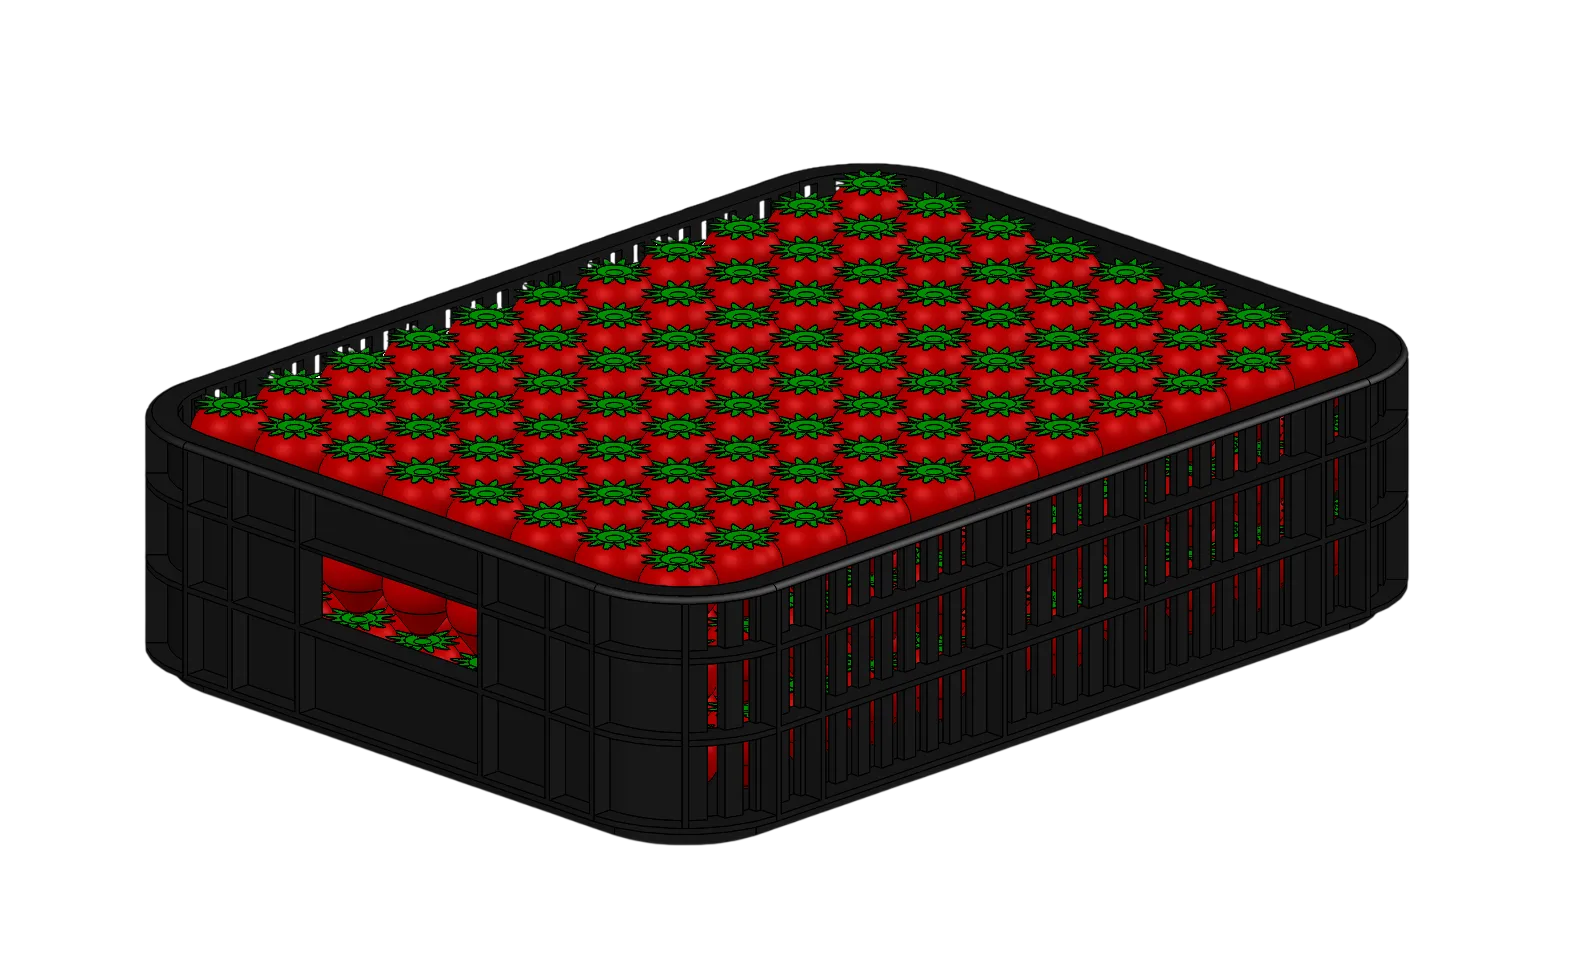
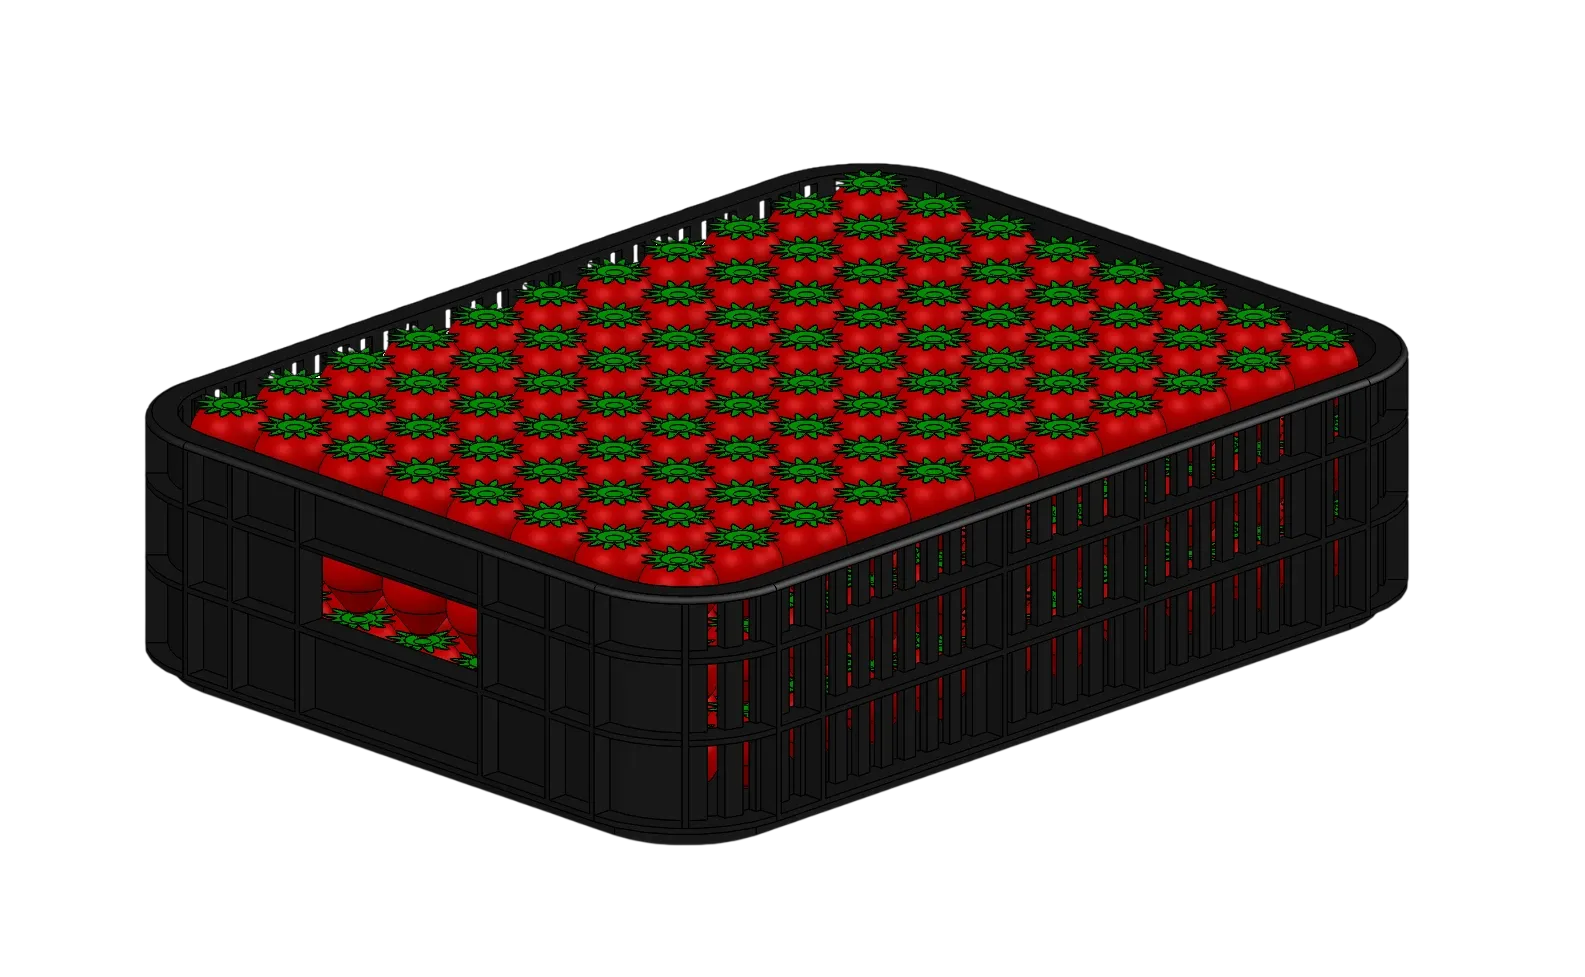
Fix transparent-photo background and centering bugs; update strawberry-flat render
Two real CSS bugs, not an asset problem:

1. .step-visual__img.is-transparent and .photo-visual__split-img.is-transparent
   were losing to a later, equal-specificity background rule
   (.bento-tile__step .step-visual__img / .step-visual--split
   .photo-visual__split-img), so every "transparent" cut-out photo shown as
   a plain step image or in a split row was silently getting its white
   panel back — this is why strawberry-flat still looked opaque even
   though the source PNG and generated WebP both had real alpha. Qualified
   the override selectors so they always win regardless of source order.

2. .bento-tile__step .step-visual__img was never actually centered: Tailwind's
   preflight sets img { display: block }, so the step's text-align: center
   (which only affects inline content) had no effect on it. Switched to
   margin: auto.

Also swapped in the user's newer strawberry-flat render (same crop/alpha
shape, different source) and reprocessed it with npm run images.

diff --git a/src/styles/site.css b/src/styles/site.css
@@ -261,7 +261,13 @@
   border-radius: var(--radius);
 }
 
-.photo-visual__split-img.is-transparent {
+/* Qualified with the context selectors below (not just .photo-visual__split-img
+   / .step-visual__img) so this reliably outranks their own background rules
+   regardless of source order — same specificity, "is it transparent" should
+   always win over "what panel colour", but two equal-specificity rules
+   resolve by source order otherwise, which silently broke this before. */
+.photo-visual__split-img.is-transparent,
+.step-visual--split .photo-visual__split-img.is-transparent {
   background: none;
 }
 
@@ -295,8 +301,11 @@
   color: var(--muted);
 }
 
-/* Cut-out (transparent) renders need no panel behind them. */
-.step-visual__img.is-transparent {
+/* Cut-out (transparent) renders need no panel behind them. Qualified with
+   .bento-tile__step (see the .photo-visual__split-img.is-transparent
+   comment above) so it reliably outranks that context's own background. */
+.step-visual__img.is-transparent,
+.bento-tile__step .step-visual__img.is-transparent {
   background: none;
 }
 
@@ -677,7 +686,10 @@
 }
 
 .bento-tile__step .step-visual__img {
-  margin-top: 0.75rem;
+  /* Tailwind's preflight sets img { display: block }, so the step's own
+     text-align: center (which only centres inline content) doesn't apply
+     to it — needs its own auto margins instead. */
+  margin: 0.75rem auto 0;
   max-width: 24rem;
   width: 100%;
   border-radius: 8px;
